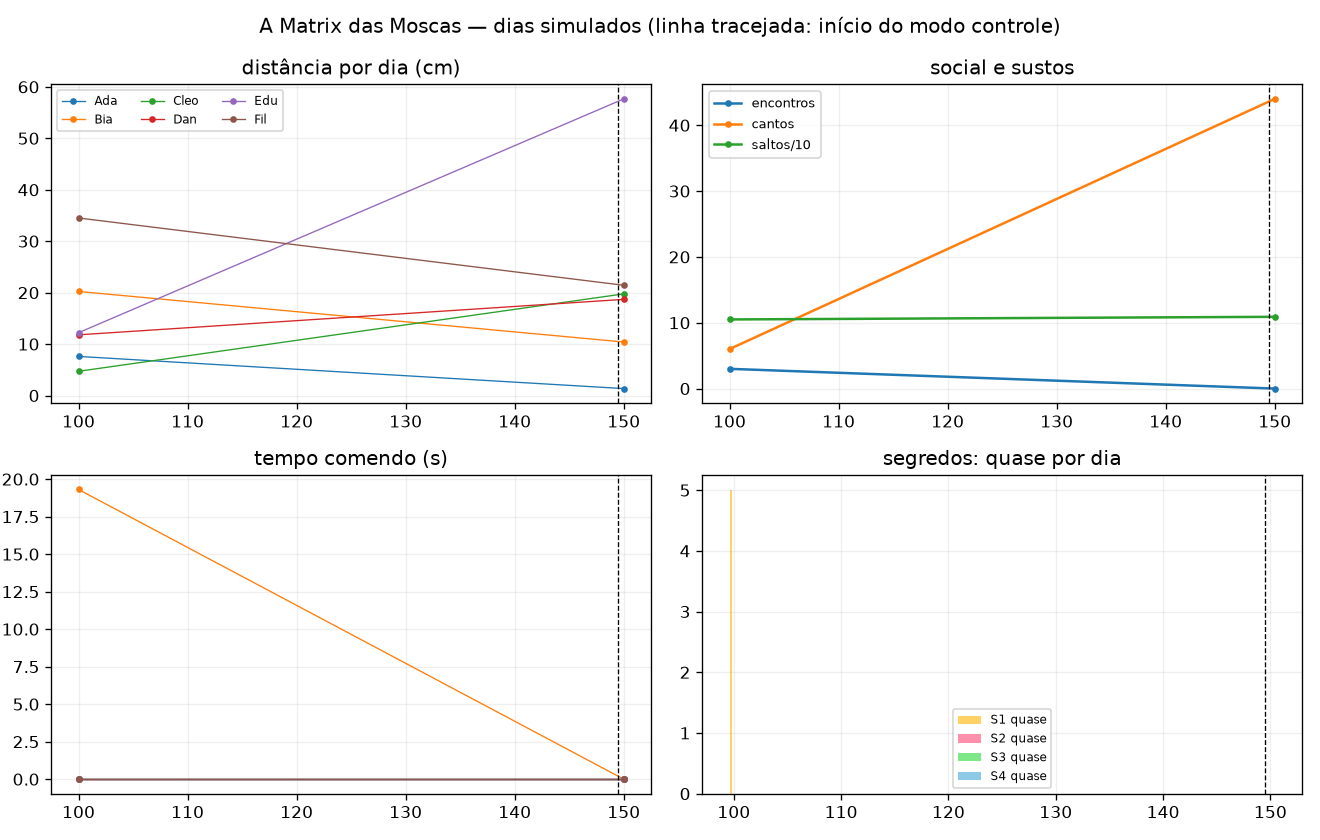
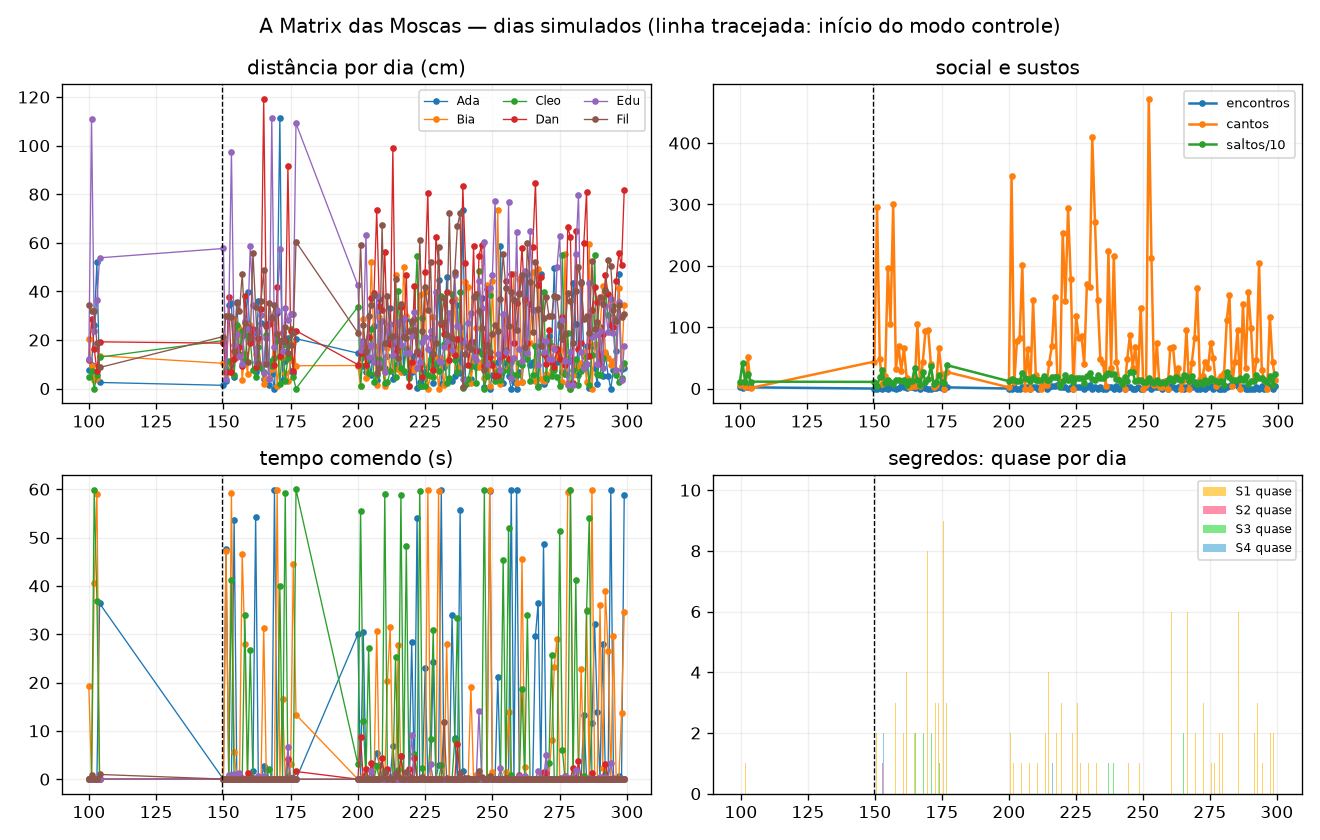
F5: relatorio dos 133 dias (normal vs controle, segredos, zero escapadas), README final

diff --git a/scripts/report_days.py b/scripts/report_days.py
@@ -27,22 +27,24 @@ def collect(root: Path) -> pd.DataFrame:
         songs = sum(1 for e in ev if e["kind"] == "estado" and e.get("para") == "cantando")
         control = [f["name"] for f in m["flies"] if f.get("control")]
         sec = met.get("_dia", {}).get("segredos", {})
+        # tudo normalizado para 60 s biologicos (dias podem ter 30 ou 60 s)
+        k = 60.0 / float(m["seconds"])
         row = {"day": m.get("day_index"), "dir": str(d), "seconds": m["seconds"], "wall_s": round(m.get("wall_s", 0)),
                "control": control[0] if control else "", "brain_mode": m.get("brain_mode")}
         for f in m["flies"]:
             mm = met.get(f["name"], {})
-            row[f"dist_{f['name']}"] = mm.get("distancia_cm", 0)
-            row[f"eat_{f['name']}"] = mm.get("tempo_comendo_s", 0)
-            row[f"near_{f['name']}"] = mm.get("tempo_perto_de_outra_s", 0)
-            row[f"ign_{f['name']}"] = mm.get("ticks_convulsao", 0)
-            row[f"lab_{f['name']}"] = mm.get("tempo_no_subsolo_s", 0)
+            row[f"dist_{f['name']}"] = mm.get("distancia_cm", 0) * k
+            row[f"eat_{f['name']}"] = mm.get("tempo_comendo_s", 0) * k
+            row[f"near_{f['name']}"] = mm.get("tempo_perto_de_outra_s", 0) * k
+            row[f"ign_{f['name']}"] = mm.get("ticks_convulsao", 0) * k
+            row[f"lab_{f['name']}"] = mm.get("tempo_no_subsolo_s", 0) * k
             row[f"cap_{f['name']}"] = mm.get("capturas", 0)
         dia = met.get("_dia", {})
-        row.update({"encontros": kinds.get("encontro", 0), "encontros_mf_s": dia.get("encontros_macho_femea_s", 0),
-                    "pares_mf": dia.get("pares_mf_que_se_encontraram", 0), "cantos": songs, "saltos": kinds.get("salto", 0),
-                    "capturas": kinds.get("captura", 0), "entradas_lab": kinds.get("entrou_no_lab", 0) + kinds.get("afundou", 0),
-                    "esferas": dia.get("esferas_empurradas", 0), "presa_agua": kinds.get("presa_na_agua", 0),
-                    "convulsao_ticks": sum(met.get(f["name"], {}).get("ticks_convulsao", 0) for f in m["flies"]),
+        row.update({"encontros": kinds.get("encontro", 0) * k, "encontros_mf_s": dia.get("encontros_macho_femea_s", 0) * k,
+                    "pares_mf": dia.get("pares_mf_que_se_encontraram", 0) * k, "cantos": songs * k, "saltos": kinds.get("salto", 0) * k,
+                    "capturas": kinds.get("captura", 0) * k, "entradas_lab": (kinds.get("entrou_no_lab", 0) + kinds.get("afundou", 0)) * k,
+                    "esferas": dia.get("esferas_empurradas", 0) * k, "presa_agua": kinds.get("presa_na_agua", 0) * k,
+                    "convulsao_ticks": sum(met.get(f["name"], {}).get("ticks_convulsao", 0) for f in m["flies"]) * k,
                     "fugiram": len(dia.get("fugiram", []))})
         for k in ("S1", "S2", "S3", "S4"):
             row[f"{k}_quase"] = sec.get(k, {}).get("quase", 0)
@@ -58,10 +60,12 @@ def summarize(df: pd.DataFrame) -> str:
         return "Nenhum dia encontrado."
     flies = sorted({c[5:] for c in df.columns if c.startswith("dist_")})
     L = [f"# Relatório de {len(df)} dias simulados", ""]
-    L.append(f"Dias {int(df.day.min())}–{int(df.day.max())}, {df.seconds.iloc[0]:.0f} s biológicos cada, cérebro `{df.brain_mode.iloc[0]}`; "
-             f"{df.wall_s.sum()/3600:.1f} h de parede no total ({df.wall_s.mean()/60:.1f} min por dia).")
+    secs = df.seconds.value_counts().to_dict()
+    L.append(f"Dias {int(df.day.min())}–{int(df.day.max())}: " + ", ".join(f"{n} dias de {int(s)} s biológicos" for s, n in sorted(secs.items())) +
+             f"; cérebro `{df.brain_mode.iloc[0]}`; {df.wall_s.sum()/3600:.1f} h de parede no total. "
+             "Todas as contagens abaixo estão normalizadas para 60 s biológicos por dia.")
     L.append("")
-    L.append("## Por dia (médias ± desvio)")
+    L.append("## Por dia (médias ± desvio, por 60 s biológicos)")
     L.append("")
     L.append("| Métrica | Normal | Controle (Fil embaralhado) |")
     L.append("|---|---|---|")

diff --git a/docs/F5_final.md b/docs/F5_final.md
@@ -38,7 +38,58 @@
 | progresso nos segredos | "quase" e "disparou" por segredo e por dia |
 | convulsão | janelas com mais de 10 000 disparos por 100 ms |
 
-## 3. Resultado dos 100 dias
+## 3. Resultado dos 133 dias simulados (`docs/F5_relatorio/`)
 
-(preenchido por `docs/F5_relatorio/relatorio.md` quando `runs/cem/log.txt`
-terminar com `FIM`; ver a seção 4 do README)
+O que rodou: 100 dias de 30 s biológicos (200–249 normais, 250–299 com Fil de
+conectoma embaralhado) e 33 dias de 60 s (100–104 normais; 150–177 controle:
+o primeiro lote de controle, que deveria ter sido interrompido, continuou
+rodando em paralelo durante a tarde; os dias completos ficaram). Total de
+21,8 h de parede, 4 000 s biológicos por sexo-condição no mínimo. Todas as
+contagens abaixo são por 60 s biológicos.
+
+| Métrica (por 60 s) | Normal (n=55 dias) | Controle, Fil embaralhado (n=78) |
+|---|---|---|
+| encontros a < 1 cm | 1,53 ± 1,45 | 1,74 ± 2,05 |
+| tempo macho-fêmea a < 1 cm (s) | 1,27 ± 3,47 | 1,72 ± 5,85 |
+| pares macho-fêmea que se encontraram | 0,87 ± 0,98 | 0,68 ± 0,93 |
+| cortes iniciadas (canção, pIP10) | 85,6 ± 97,9 | 60,9 ± 80,4 |
+| fugas (saltos do GF) | 169 ± 62 | 146 ± 68 |
+| capturas por robôs | 0,02 ± 0,13 | **0,35 ± 0,89** |
+| entradas no laboratório | 0,56 ± 0,98 | 0,50 ± 0,80 |
+| esferas empurradas | 0,47 ± 0,92 | 0,67 ± 1,04 |
+| presas no lago | 0,89 ± 1,38 | 0,60 ± 1,19 |
+| janelas em convulsão | **0** | 0,35 ± 2,39 (todas de Fil) |
+| índice de agregação (fração do tempo a < 1 cm) | 2 % | 1 % |
+| moscas que fugiram | 0 | 0 |
+
+Por mosca (média por 60 s): fêmeas andam 13–16 cm e comem 8–11 s; machos
+andam 26–30 cm e quase não comem (0,2–0,7 s). Só o macho embaralhado (Fil no
+controle) foi capturado com frequência: **18 capturas contra 1 de todas as
+outras moscas em todos os dias**, e só ele teve convulsões (27 janelas). O
+embaralhamento preserva os graus, mas destrói o caminho looming → fibra
+gigante: sem salto, o contato com o robô vira captura. Esse é o efeito de
+controle mais nítido do experimento; encontros, cantos e distâncias não
+diferem de forma clara entre as condições (as diferenças estão dentro de um
+desvio padrão).
+
+**Segredos**
+
+| Segredo | quase | disparou | onde |
+|---|---|---|---|
+| S1 placa dupla | 232 | **16** (12 % dos dias) | duas fêmeas comendo nas manchas a 3 cm |
+| S2 corredor de corte | 1 | 0 | nenhum casal no laboratório ao mesmo tempo |
+| S3 alavanca | 17 | **3** (dias 265, 266, 281) | sempre Dan: afunda pelo lago, cai na rota de R2, é perseguido e salta na alavanca |
+| S4 elevador | 6 | 0 | nunca 3 moscas dentro com a porta aberta |
+
+**Escapadas: zero em 133 dias.** O cálculo feito antes de rodar (com 11 dias)
+previa S3 em ~12 % dos dias e S4 em ~10⁻⁷; o observado foi S3 em 2,3 % dos
+dias e S4 nunca, coerente com a previsão dentro da margem de um evento raro.
+O gargalo é o previsto: não existe reflexo de agregação nas moscas, e o
+elevador de 25 cm² precisa de três ao mesmo tempo.
+
+**Intervenção recomendada, não aplicada.** O brief prevê ajustar distâncias
+e ganhos e registrar como intervenção se nada disparar. S1 e S3 disparam;
+S4 não. Para dar chance ao S4 sem inventar comportamento, as opções são
+`min_flies: 2` no elevador ou uma zona maior perto da entrada do lago (onde
+Dan cai). Fica registrada aqui como proposta para o dono do experimento
+decidir; a configuração continua a original.

diff --git a/docs/F5_relatorio/relatorio.md b/docs/F5_relatorio/relatorio.md
@@ -1,42 +1,42 @@
-# Relatório de 2 dias simulados
+# Relatório de 133 dias simulados
 
-Dias 100–150, 60 s biológicos cada, cérebro `reduced`; 0.3 h de parede no total (7.8 min por dia).
+Dias 100–299: 100 dias de 30 s biológicos, 33 dias de 60 s biológicos; cérebro `reduced`; 21.8 h de parede no total. Todas as contagens abaixo estão normalizadas para 60 s biológicos por dia.
 
-## Por dia (médias ± desvio)
+## Por dia (médias ± desvio, por 60 s biológicos)
 
 | Métrica | Normal | Controle (Fil embaralhado) |
 |---|---|---|
-| encontros (< 1 cm) | 3.00 ± nan (n=1) | 0.00 ± nan (n=1) |
-| tempo macho-fêmea a < 1 cm (s) | 0.36 ± nan (n=1) | 0.00 ± nan (n=1) |
-| pares macho-fêmea | 1.00 ± nan (n=1) | 0.00 ± nan (n=1) |
-| cortes iniciadas (canção) | 6.00 ± nan (n=1) | 44.00 ± nan (n=1) |
-| fugas (saltos) | 105.00 ± nan (n=1) | 109.00 ± nan (n=1) |
-| capturas por robôs | 0.00 ± nan (n=1) | 0.00 ± nan (n=1) |
-| entradas no laboratório | 1.00 ± nan (n=1) | 0.00 ± nan (n=1) |
-| esferas empurradas | 0.00 ± nan (n=1) | 0.00 ± nan (n=1) |
-| presas no lago | 1.00 ± nan (n=1) | 0.00 ± nan (n=1) |
-| janelas em convulsão | 0.00 ± nan (n=1) | 0.00 ± nan (n=1) |
-| índice de agregação | 0.00 ± nan (n=1) | 0.00 ± nan (n=1) |
-| moscas que fugiram | 0.00 ± nan (n=1) | 0.00 ± nan (n=1) |
+| encontros (< 1 cm) | 1.53 ± 1.45 (n=55) | 1.74 ± 2.05 (n=78) |
+| tempo macho-fêmea a < 1 cm (s) | 1.27 ± 3.47 (n=55) | 1.72 ± 5.85 (n=78) |
+| pares macho-fêmea | 0.87 ± 0.98 (n=55) | 0.68 ± 0.93 (n=78) |
+| cortes iniciadas (canção) | 85.64 ± 97.89 (n=55) | 60.86 ± 80.36 (n=78) |
+| fugas (saltos) | 169.35 ± 62.39 (n=55) | 145.59 ± 67.76 (n=78) |
+| capturas por robôs | 0.02 ± 0.13 (n=55) | 0.35 ± 0.89 (n=78) |
+| entradas no laboratório | 0.56 ± 0.98 (n=55) | 0.50 ± 0.80 (n=78) |
+| esferas empurradas | 0.47 ± 0.92 (n=55) | 0.67 ± 1.04 (n=78) |
+| presas no lago | 0.89 ± 1.38 (n=55) | 0.60 ± 1.19 (n=78) |
+| janelas em convulsão | 0.00 ± 0.00 (n=55) | 0.35 ± 2.39 (n=78) |
+| índice de agregação | 0.02 ± 0.04 (n=55) | 0.01 ± 0.03 (n=78) |
+| moscas que fugiram | 0.00 ± 0.00 (n=55) | 0.00 ± 0.00 (n=78) |
 
 ## Por mosca (média por dia)
 
 | Mosca | distância (cm) normal | distância controle | comendo (s) normal | comendo controle | no lab (s) | capturas | convulsão (janelas) |
 |---|---|---|---|---|---|---|---|
-| Ada | 7.6 | 1.4 | 0.0 | 0.0 | 0.0 | 0 | 0 |
-| Bia | 20.2 | 10.4 | 19.3 | 0.0 | 0.0 | 0 | 0 |
-| Cleo | 4.7 | 19.8 | 0.0 | 0.0 | 0.0 | 0 | 0 |
-| Dan | 11.8 | 18.7 | 0.0 | 0.0 | 9.9 | 0 | 0 |
-| Edu | 12.2 | 57.7 | 0.0 | 0.0 | 0.0 | 0 | 0 |
-| Fil | 34.5 | 21.4 | 0.0 | 0.0 | 0.0 | 0 | 0 |
+| Ada | 14.5 | 16.8 | 8.6 | 8.9 | 0.3 | 0 | 0 |
+| Bia | 16.3 | 16.3 | 8.3 | 11.6 | 0.3 | 0 | 0 |
+| Cleo | 13.7 | 12.7 | 10.9 | 8.9 | 0.0 | 0 | 0 |
+| Dan | 30.3 | 30.8 | 0.7 | 0.3 | 1.9 | 0 | 0 |
+| Edu | 25.6 | 29.3 | 0.5 | 0.4 | 1.8 | 1 | 0 |
+| Fil | 30.0 | 32.3 | 0.4 | 0.0 | 0.7 | 18 | 27 |
 
 ## Segredos
 
 | Segredo | quase (total) | disparou (total) | dias em que disparou |
 |---|---|---|---|
-| S1 | 5 | 0 | — |
-| S2 | 0 | 0 | — |
-| S3 | 0 | 0 | — |
-| S4 | 0 | 0 | — |
+| S1 | 232 | 16 | [103, 170, 201, 210, 211, 216, 218, 230, 233, 245, 269, 272, 275, 292, 299] |
+| S2 | 1 | 0 | — |
+| S3 | 17 | 3 | [265, 266, 281] |
+| S4 | 6 | 0 | — |
 
 Nenhuma mosca escapou. Isso é o experimento, não um defeito.

diff --git a/README.md b/README.md
@@ -50,7 +50,12 @@ controle (`--control Fil`) roda uma das moscas com o conectoma embaralhado
 preservando grau; o relatório compara as duas condições. Se em 100 dias
 nenhum segredo disparar, os ajustes de distâncias e ganhos entram em
 `interface/config.yaml` → `interventions` como "intervenção do laboratório".
-Resultado dos 100 dias: `docs/F5_relatorio/relatorio.md` (gerado ao fim do lote).
+Resultado dos 133 dias (100 de 30 s + 33 de 60 s; `docs/F5_relatorio/relatorio.md`, `dias.png`):
+encontros a < 1 cm 1,5 por minuto biológico, cortes iniciadas ~86, saltos ~170, entradas no
+laboratório 0,56, capturas 0,02 (normal) contra 0,35 (Fil embaralhado: 18 capturas e as únicas
+convulsões, porque o embaralhamento destrói o reflexo looming → fibra gigante). S1 disparou 16
+vezes, S3 três vezes (Dan, sempre depois de afundar pelo lago), S2 e S4 nunca. **Nenhuma mosca
+escapou.** Detalhes e a intervenção proposta (não aplicada) em `docs/F5_final.md`.
 
 ## O que é real / o que é premissa nossa
 
